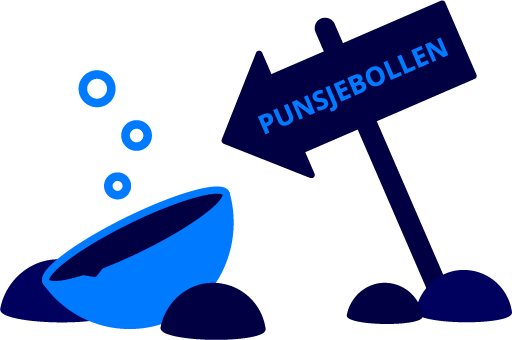
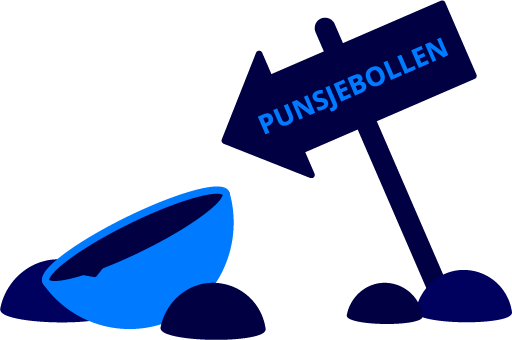
Animated bubbles

Changed region(s): [[0.1562, 0.2059, 0.25, 0.3235], [0.2188, 0.3529, 0.3125, 0.4412], [0.1875, 0.5, 0.2812, 0.5882]]

diff --git a/wp-content/themes/studio13/css/app.css b/wp-content/themes/studio13/css/app.css
@@ -655,3 +655,56 @@ article .article-footer { text-align: right; }
 /* Samuel E. Wright - Under the sea */
 .anda-da-zee { position: relative; width: 100%; height: 5000px; background-image: -webkit-linear-gradient(#007aff, #00005e); background-image: -moz-linear-gradient(#007aff, #00005e); background-image: -o-linear-gradient(#007aff, #00005e); background-image: linear-gradient(#007aff, #00005e); border-bottom: solid 65px #000043; }
 .anda-da-zee .punsjebollen { position: absolute; bottom: -40px; left: 25%; z-index: 1; width: 512px; height: 340px; background-image: url("../images/punsjebolle.png"); background-repeat: no-repeat; }
+.anda-da-zee .bubble { width: 20px; height: 20px; display: inline-block; position: absolute; bottom: 30px; -webkit-border-radius: 50%; -moz-border-radius: 50% 50%; border-radius: 50% 50%; border: 6px solid #007aff; }
+.anda-da-zee .bubble.first { left: 80px; width: 50px; height: 50px; border: 14px solid #007aff; -webkit-animation: fade-move-long 4s infinite; -moz-animation: fade-move-long 4s infinite; -o-animation: fade-move-long 4s infinite; animation: fade-move-long 4s infinite; }
+.anda-da-zee .bubble.second { left: 150px; width: 35px; height: 35px; bottom: 40px; border: 10px solid #007aff; -webkit-animation: fade-move-middle 4s 0.6s infinite; -moz-animation: fade-move-middle 4s 0.6s infinite; -o-animation: fade-move-middle 4s 0.6s infinite; animation: fade-move-middle 4s 0.6s infinite; }
+.anda-da-zee .bubble.third { left: 100px; -webkit-animation: fade-move 4s 1.4s infinite; -moz-animation: fade-move 4s 1.4s infinite; -o-animation: fade-move 4s 1.4s infinite; animation: fade-move 4s 1.4s infinite; }
+
+/* fade move bubbles */
+@-moz-keyframes fade-move { 0% { opacity: 0.5; }
+  50% { opacity: 1; }
+  100% { opacity: 0; bottom: 230px; } }
+
+@-webkit-keyframes fade-move { 0% { opacity: 0.5; }
+  50% { opacity: 1; }
+  100% { opacity: 0; bottom: 230px; } }
+
+@-o-keyframes fade-move { 0% { opacity: 0.5; }
+  50% { opacity: 1; }
+  100% { opacity: 0; bottom: 230px; } }
+
+@keyframes fade-move { 0% { opacity: 0.5; }
+  50% { opacity: 1; }
+  100% { opacity: 0; bottom: 230px; } }
+
+@-moz-keyframes fade-move-middle { 0% { opacity: 0.5; }
+  50% { opacity: 1; }
+  100% { opacity: 0; bottom: 330px; } }
+
+@-webkit-keyframes fade-move-middle { 0% { opacity: 0.5; }
+  50% { opacity: 1; }
+  100% { opacity: 0; bottom: 330px; } }
+
+@-o-keyframes fade-move-middle { 0% { opacity: 0.5; }
+  50% { opacity: 1; }
+  100% { opacity: 0; bottom: 330px; } }
+
+@keyframes fade-move-middle { 0% { opacity: 0.5; }
+  50% { opacity: 1; }
+  100% { opacity: 0; bottom: 330px; } }
+
+@-moz-keyframes fade-move-long { 0% { opacity: 0.5; }
+  50% { opacity: 1; }
+  100% { opacity: 0; bottom: 430px; } }
+
+@-webkit-keyframes fade-move-long { 0% { opacity: 0.5; }
+  50% { opacity: 1; }
+  100% { opacity: 0; bottom: 430px; } }
+
+@-o-keyframes fade-move-long { 0% { opacity: 0.5; }
+  50% { opacity: 1; }
+  100% { opacity: 0; bottom: 430px; } }
+
+@keyframes fade-move-long { 0% { opacity: 0.5; }
+  50% { opacity: 1; }
+  100% { opacity: 0; bottom: 430px; } }

diff --git a/wp-content/themes/studio13/sass/app.scss b/wp-content/themes/studio13/sass/app.scss
@@ -44,6 +44,7 @@
 @import "compass/css3/filter";
 @import "compass/css3/animation"; // requires compass v0.13, see README.md
 @import "compass/css3/images";
+@import "compass/css3/border-radius";
 
 $multiplied: #00005e; // FIXME:  use this instead of transparent water?
 
@@ -546,4 +547,73 @@ article {
         @include background-image( url('../images/punsjebolle.png'));
         background-repeat: no-repeat;
     }
+    .bubble {
+        width: 20px;
+        height: 20px;
+        display: inline-block;
+        position: absolute;
+        bottom: 30px;
+        @include border-radius(50% 50%);
+        border: 6px solid $primary-color;
+
+        &.first {
+            left: 80px;
+            width: 50px;
+            height: 50px;
+            border: 14px solid $primary-color;
+            @include animation(fade-move-long 4s infinite);
+        }
+        &.second {
+            left: 150px;
+            width: 35px;
+            height: 35px;
+            bottom: 40px;
+            border: 10px solid $primary-color;
+            @include animation(fade-move-middle 4s .6s infinite);
+        }
+        &.third {
+            left: 100px;
+            @include animation(fade-move 4s 1.4s infinite);
+        }
+    }
+}
+/* fade move bubbles */
+@include keyframes(fade-move) {
+    0% {
+        opacity: 0.5;
+    }
+    50% {
+        opacity: 1;
+    }
+    100% {
+        opacity: 0;
+        bottom: 230px;
+    }
+
+}
+@include keyframes(fade-move-middle) {
+    0% {
+        opacity: 0.5;
+    }
+    50% {
+        opacity: 1;
+    }
+    100% {
+        opacity: 0;
+        bottom: 330px;
+    }
+
+}
+@include keyframes(fade-move-long) {
+    0% {
+        opacity: 0.5;
+    }
+    50% {
+        opacity: 1;
+    }
+    100% {
+        opacity: 0;
+        bottom: 430px;
+    }
+
 }

diff --git a/wp-content/themes/studio13/footer.php b/wp-content/themes/studio13/footer.php
@@ -3,10 +3,11 @@
         <footer class="footer" role="contentinfo">
             <div class="wavetop"></div>
             <div id="inner-footer">
-                <a href="http://studentersamfundet.no/"><img src="<?php echo get_template_directory_uri(); ?>/images/streamer.png" /></a>
-                <!--<nav role="navigation">
-                    <?php wp_nav_menu( array( 'theme_location' => 'footer', 'menu_class' => 'footer-menu' ) ); ?>
-                </nav>-->
+                <div class="anda-da-zee"><div class="punsjebollen">
+                <div class="bubble first"></div>
+                <div class="bubble second"></div>
+                <div class="bubble third"></div>
+</div></div>
             </div> <!-- end #inner-footer -->
         </footer> <!-- end footer -->
     </div> <!-- end #container -->
